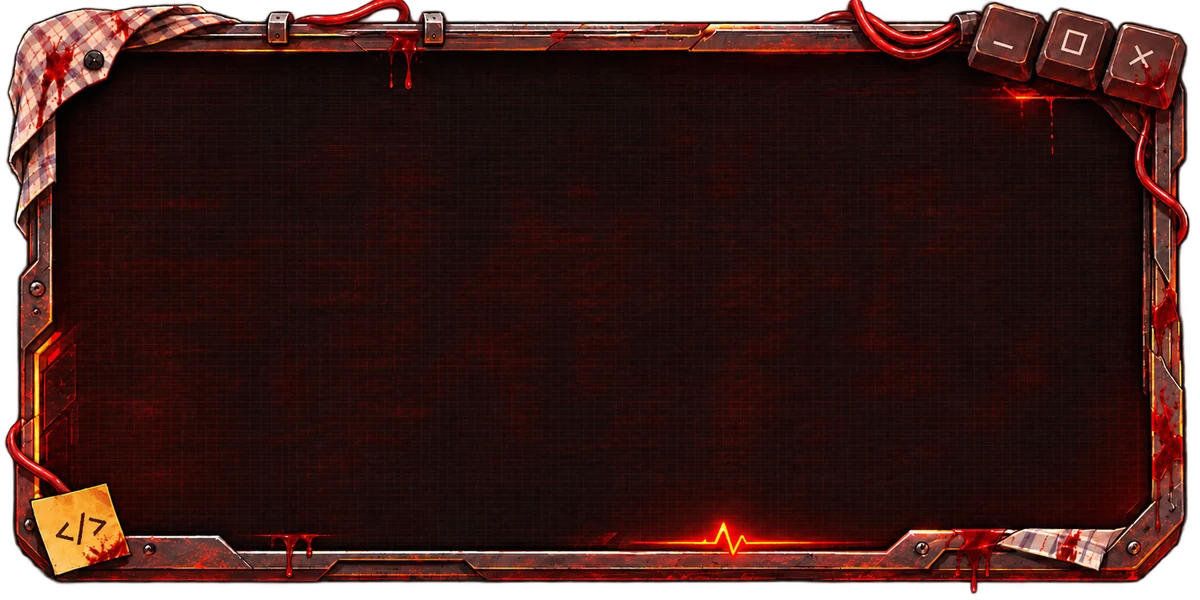
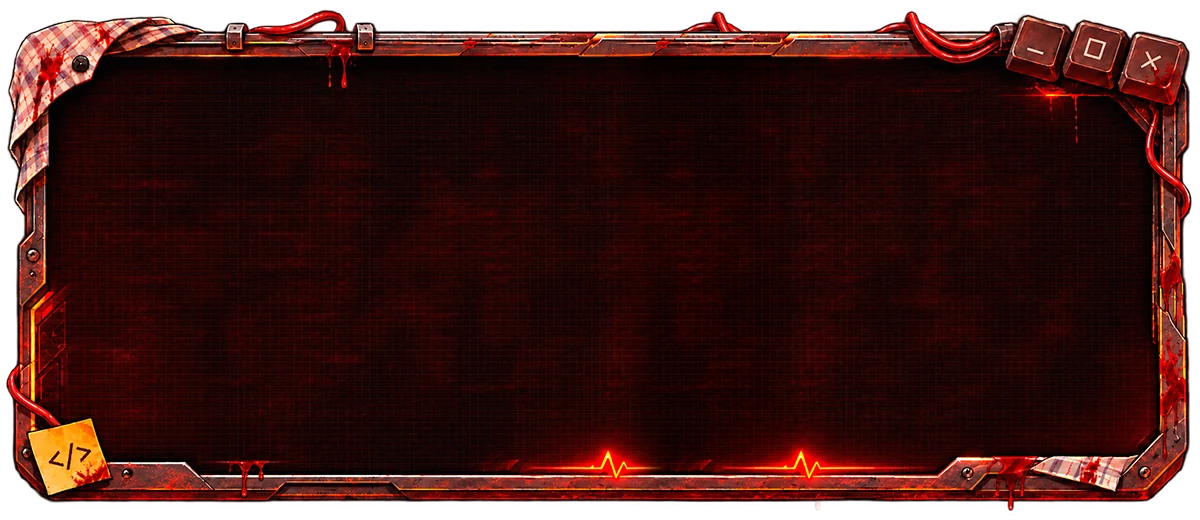
Фокус's card: the artist's fixed frame; no «who he is» line on the boss cards
Claude-Session: https://claude.ai/code/session_01XtpZhZabEYUcJEQKQgYpHe

diff --git a/src/app/screens.css b/src/app/screens.css
@@ -1892,7 +1892,7 @@ button.bjt-stack { cursor: pointer; }
 /* Фокус's card: a bloody monitor window (boss-card-frame-fokus.webp, 1200×600, the artist's): the code types itself on
    the screen behind the text (art/fokus-screens.tsx FokusCardCode), his promise along the top, blood runs down the frame,
    and the screen shorts out now and then — bright, then dark for a blink, a flicker, bright again */
-.bcard.bcard-boss-fokus { --ink-c: #f6e6df; --mute-c: #d29a8c; border-image: url("/assets/ui/boss-card-frame-fokus.webp?v=1") 250 fill / 74px stretch;
+.bcard.bcard-boss-fokus { --ink-c: #f6e6df; --mute-c: #d29a8c; border-image: url("/assets/ui/boss-card-frame-fokus.webp?v=2") 215 fill / 64px stretch;
   animation: fk-card-short 7s steps(1) infinite; }
 .bcard.bcard-boss-fokus .bcard-name { text-shadow: 0 2px 0 rgba(0, 0, 0, 0.7), 0 0 12px rgba(255, 40, 30, 0.45); }
 .bcard.bcard-boss-fokus .bcard-reward { background: rgba(0, 0, 0, 0.45); box-shadow: inset 0 0 0 1.5px rgba(255, 60, 40, 0.3); }
@@ -1903,8 +1903,8 @@ button.bjt-stack { cursor: pointer; }
   64.5% { filter: drop-shadow(0 6px 6px rgba(0, 0, 0, 0.45)) brightness(0.35); } 66% { filter: drop-shadow(0 6px 6px rgba(0, 0, 0, 0.45)) brightness(1); }
   88% { filter: drop-shadow(0 6px 6px rgba(0, 0, 0, 0.45)) brightness(0.55); } 89% { filter: drop-shadow(0 6px 6px rgba(0, 0, 0, 0.45)) brightness(1); } }
 .fk-card-fx { position: absolute; inset: 0; z-index: 0; pointer-events: none; }
-.fk-card-code { position: absolute; left: 7%; right: 7%; top: 17%; bottom: 13%; width: 86%; height: 70%; opacity: 0.32; mix-blend-mode: screen; filter: hue-rotate(-20deg) saturate(0.8); }
-.fk-card-egg { position: absolute; left: 12%; right: 22%; top: 8.5%; overflow: hidden; white-space: nowrap;
+.fk-card-code { position: absolute; left: 40px; top: 36px; width: calc(100% - 80px); height: calc(100% - 72px); opacity: 0.32; mix-blend-mode: screen; filter: hue-rotate(-20deg) saturate(0.8); }
+.fk-card-egg { position: absolute; left: 66px; right: 66px; top: 22px; overflow: hidden; white-space: nowrap;
   font: 9px/1.1 ui-monospace, Menlo, Consolas, monospace; color: #ff6b5a; text-shadow: 0 0 4px rgba(255, 40, 20, 0.9); letter-spacing: 0.2px; }
 /* his promise runs along the top of the screen like a ticker */
 .fk-card-egg > b { display: inline-block; font-weight: inherit; padding-left: 100%; animation: fk-egg 14s linear infinite; }
@@ -1913,10 +1913,10 @@ button.bjt-stack { cursor: pointer; }
 .fk-drip { position: absolute; width: 4px; border-radius: 0 0 3px 3px; background: linear-gradient(#7d0a0a, #c4161a); transform-origin: 50% 0;
   box-shadow: 0 0 3px rgba(200, 20, 20, 0.6); animation: fk-drip 5.2s ease-in infinite; }
 .fk-drip::after { content: ""; position: absolute; left: -2px; bottom: -4px; width: 8px; height: 8px; border-radius: 50% 50% 50% 50% / 60% 60% 40% 40%; background: #b8121a; }
-.fk-drip.d1 { left: 33.6%; top: 13%; animation-delay: -0.4s; }
-.fk-drip.d2 { left: 87.6%; top: 19%; animation-delay: -2.1s; animation-duration: 6.4s; }
-.fk-drip.d3 { left: 24.2%; top: 94%; animation-delay: -3.3s; animation-duration: 5.8s; }
-.fk-drip.d4 { left: 97.6%; top: 58%; animation-delay: -1.2s; animation-duration: 7s; }
+.fk-drip.d1 { left: 27.5%; top: 17px; animation-delay: -0.4s; }
+.fk-drip.d2 { left: calc(100% - 38px); top: 31px; animation-delay: -2.1s; animation-duration: 6.4s; }
+.fk-drip.d3 { left: 72px; top: calc(100% - 20px); animation-delay: -3.3s; animation-duration: 5.8s; }
+.fk-drip.d4 { left: calc(100% - 60px); top: calc(100% - 16px); animation-delay: -1.2s; animation-duration: 7s; }
 @keyframes fk-drip { 0% { height: 0; opacity: 0; } 8% { height: 2px; opacity: 1; } 70% { height: 26px; opacity: 1; transform: translateY(0); }
   100% { height: 30px; opacity: 0; transform: translateY(14px); } }
 .bcard.bcard-boss-fokus .bcard-main, .bcard.bcard-boss-fokus .bcard-art { z-index: 1; }

diff --git a/src/content/updates.ts b/src/content/updates.ts
@@ -21,6 +21,7 @@ export const UPDATES: UpdateNote[] = [
     date: "22 ноября",
     title: "Фартук Утилизатора",
     items: [
+      { text: "На карточках боссов больше нет подписей, кто они такие." },
       { img: "/bosses/fokus/portrait.webp", text: "Новая карточка Фокуса в списке боссов: окно в крови, по экрану пишется код, сверху бежит его обещание, а экран то и дело коротит." },
       { img: "/assets/zarub/bag-blat-1.webp", text: "Зарубы: у каждой сумки свой цвет — пацанские зелёная, синяя и бордовая, блатные коричневая, жёлтая и красная, авторитетные серая, белая и фиолетовая." },
       { img: "/assets/zarub/sign.webp", text: "Зарубы теперь открываются сразу с выбора сложности, сумки — по кнопке справа сверху. Вывеска мигает красным, лампа на стене мерцает, выйти можно кнопкой «Хата»." },

diff --git a/src/client/screens/bosses.tsx b/src/client/screens/bosses.tsx
@@ -154,7 +154,8 @@ export function BossesScreen() {
                 <div className="bcard-head">
                   <div className="col" style={{ gap: 1, minWidth: 0 }}>
                     <b className="bcard-name display ellipsis">{b.name}</b>
-                    <span className="bcard-title ellipsis">{grey ? `Откроется пропусками «${prev?.name}»` : locked ? `Нужны пропуски «${prev?.name}»` : b.title}</span>
+                    {/* who he is is not told on the card (the user 2026-11-22): only what is needed to open him */}
+                    {(grey || locked) && <span className="bcard-title ellipsis">{grey ? `Откроется пропусками «${prev?.name}»` : `Нужны пропуски «${prev?.name}»`}</span>}
                   </div>
                   {mine ? (
                     <span className="bcard-pill live"><i className="live-dot" />{clock(mine.endsAt - now)}</span>
